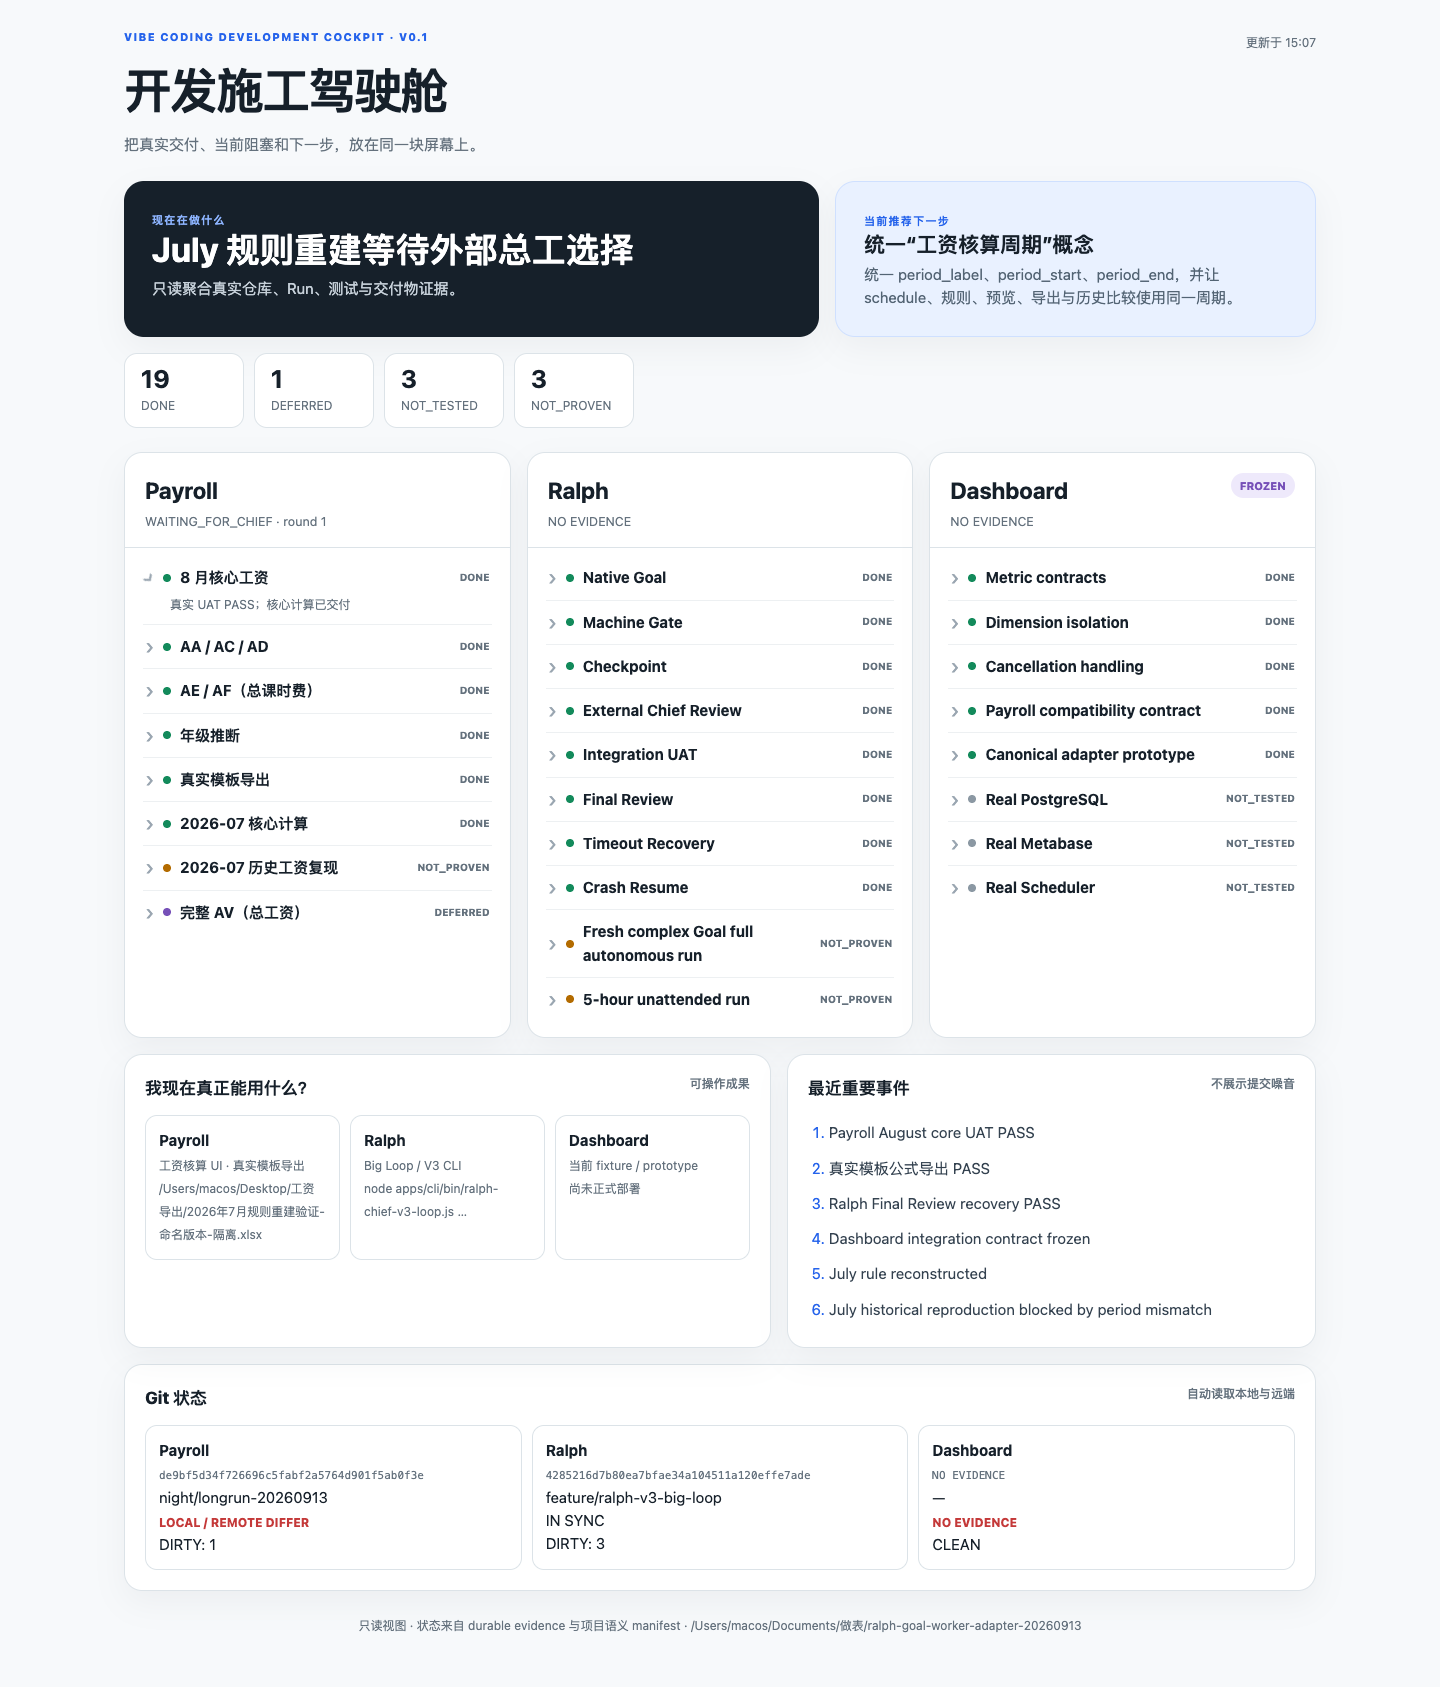
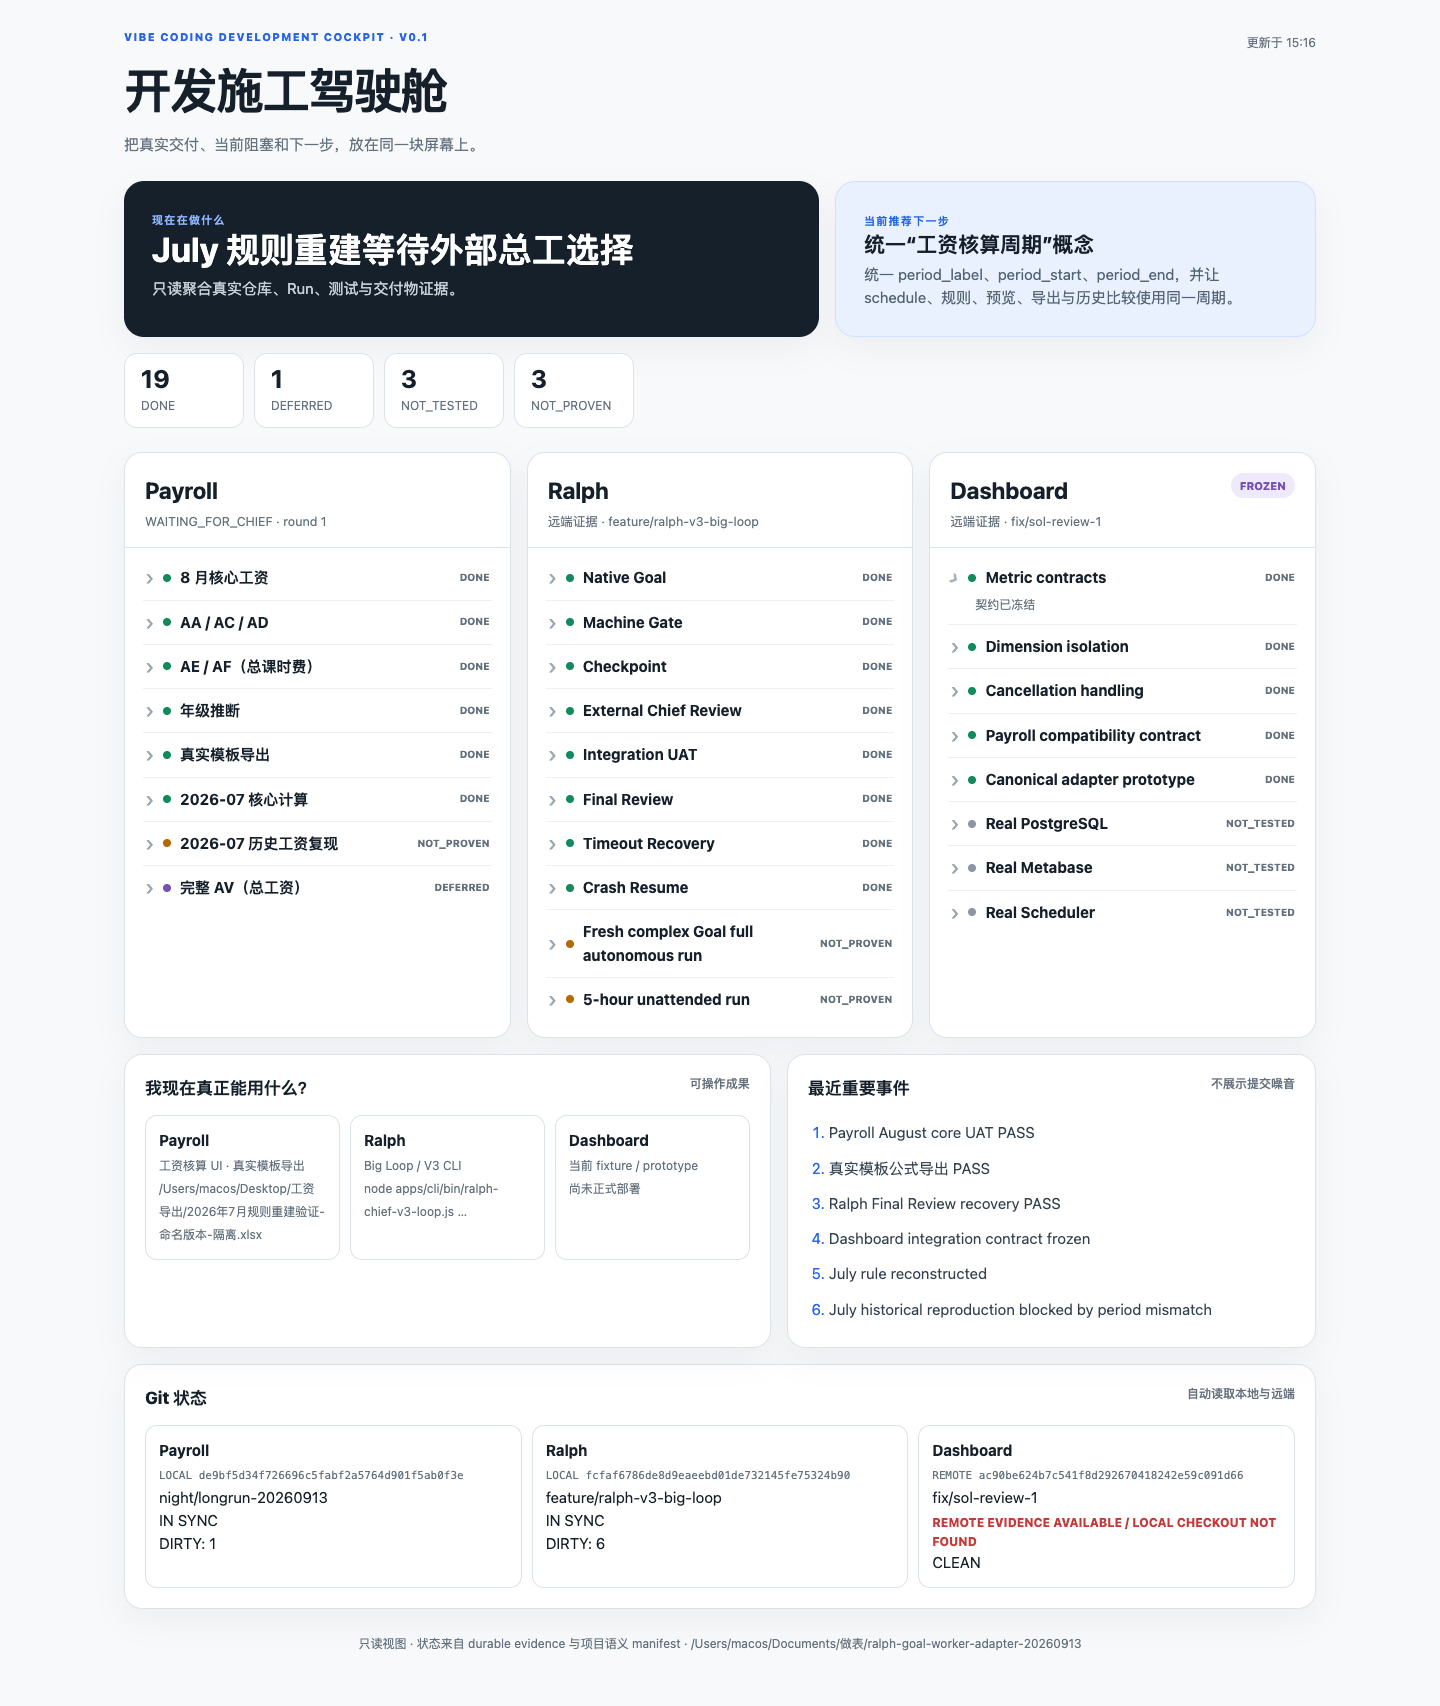
fix: surface dashboard remote evidence

diff --git a/apps/progress-board/app.js b/apps/progress-board/app.js
@@ -14,7 +14,9 @@ function projectHtml(p) {
   const run = p.currentRun;
   const runLine = run
     ? `${run.phase || "—"} · round ${run.round ?? "—"}`
-    : "NO EVIDENCE";
+    : p.repo?.remoteHead
+      ? `远端证据 · ${p.repo.branch || "—"}`
+      : "NO EVIDENCE";
   return `<article class="project"><div class="project-head"><div><h3>${esc(p.name)}</h3><small>${esc(runLine)}</small></div>${p.status ? `<span class="badge ${esc(p.status)}">${esc(p.status)}</span>` : ""}</div><div class="milestones">${p.milestones.map(milestoneHtml).join("")}</div></article>`;
 }
 function render(d) {
@@ -45,7 +47,7 @@ function render(d) {
   document.querySelector("#git").innerHTML = [d.payroll, d.ralph, d.dashboard]
     .map(
       (p) =>
-        `<div class="git-card"><b>${esc(p.name)}</b><code>${esc(p.repo.head || "NO EVIDENCE")}</code><div>${esc(p.repo.branch || "—")}</div><div class="${p.repo.divergence !== "IN SYNC" ? "warn" : ""}">${esc(p.repo.divergence)}</div><div>${p.repo.dirtyFiles.length ? `DIRTY: ${p.repo.dirtyFiles.length}` : "CLEAN"}</div></div>`
+        `<div class="git-card"><b>${esc(p.name)}</b><code>${esc(p.repo.head ? `LOCAL ${p.repo.head}` : p.repo.remoteHead ? `REMOTE ${p.repo.remoteHead}` : "NO EVIDENCE")}</code><div>${esc(p.repo.branch || "—")}</div><div class="${p.repo.divergence !== "IN SYNC" ? "warn" : ""}">${esc(p.repo.divergence)}</div><div>${p.repo.dirtyFiles.length ? `DIRTY: ${p.repo.dirtyFiles.length}` : "CLEAN"}</div></div>`
     )
     .join("");
   document.querySelector("#deliverables").innerHTML = [
